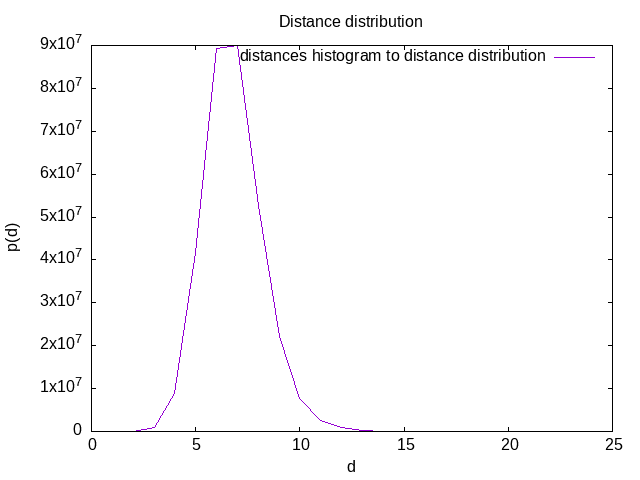
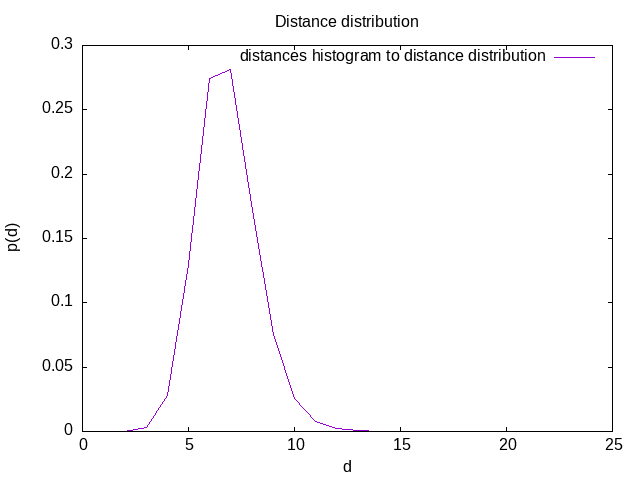
normalized the distribution axis of the distances distribution

diff --git a/tpri/src/main/java/org/tpri/Main.java b/tpri/src/main/java/org/tpri/Main.java
@@ -77,15 +77,13 @@ public class Main {
         System.out.println("avgDistance: " + avgDistance / (double) sum);
 
 
-        /*
+
         // print out the distances histogram and use gnuplot to draw the distance
         // distribution.
-        
         for (int i = 0; i < distancesHistogram.length; i++) {
             System.out.println();
-            System.out.printf(Locale.US, "%6d%20.8f%n", i, (double)distancesHistogram[i]);
+            System.out.printf(Locale.US, "%6d%20.8f%n", i, (double)distancesHistogram[i]/(nbNodes*graph.getNodeCount()));
         }
-         */
 
 
     }

diff --git a/README.md b/README.md
@@ -101,28 +101,28 @@ Du coup, le coefficient de clustering sera la moyenne des degrès sur le nombre 
   Avec les données de notre histogram de distances (en les affichant avec printf):
   
   ```txt
-     0       1000.00000000
-     1       6766.00000000
-     2      82014.00000000
-     3     995772.00000000
-     4    8768203.00000000
-     5   41656189.00000000
-     6   89316067.00000000
-     7   89988564.00000000
-     8   52734971.00000000
-     9   22155115.00000000
-    10    7609885.00000000
-    11    2464412.00000000
-    12     855664.00000000
-    13     316430.00000000
-    14      97141.00000000
-    15      24301.00000000
-    16       5824.00000000
-    17       1282.00000000
-    18        314.00000000
-    19         75.00000000
-    20         10.00000000
-    21          1.00000000
+     0          0.00000315
+     1          0.00002065
+     2          0.00024990
+     3          0.00305799
+     4          0.02763719
+     5          0.12952498
+     6          0.27414201
+     7          0.28143229
+     8          0.17183861
+     9          0.07540130
+    10          0.02603512
+    11          0.00774125
+    12          0.00213479
+    13          0.00057485
+    14          0.00015460
+    15          0.00004027
+    16          0.00000909
+    17          0.00000173
+    18          0.00000022
+    19          0.00000003
+    20          0.00000000
+    21          0.00000000
   
   ```
   
